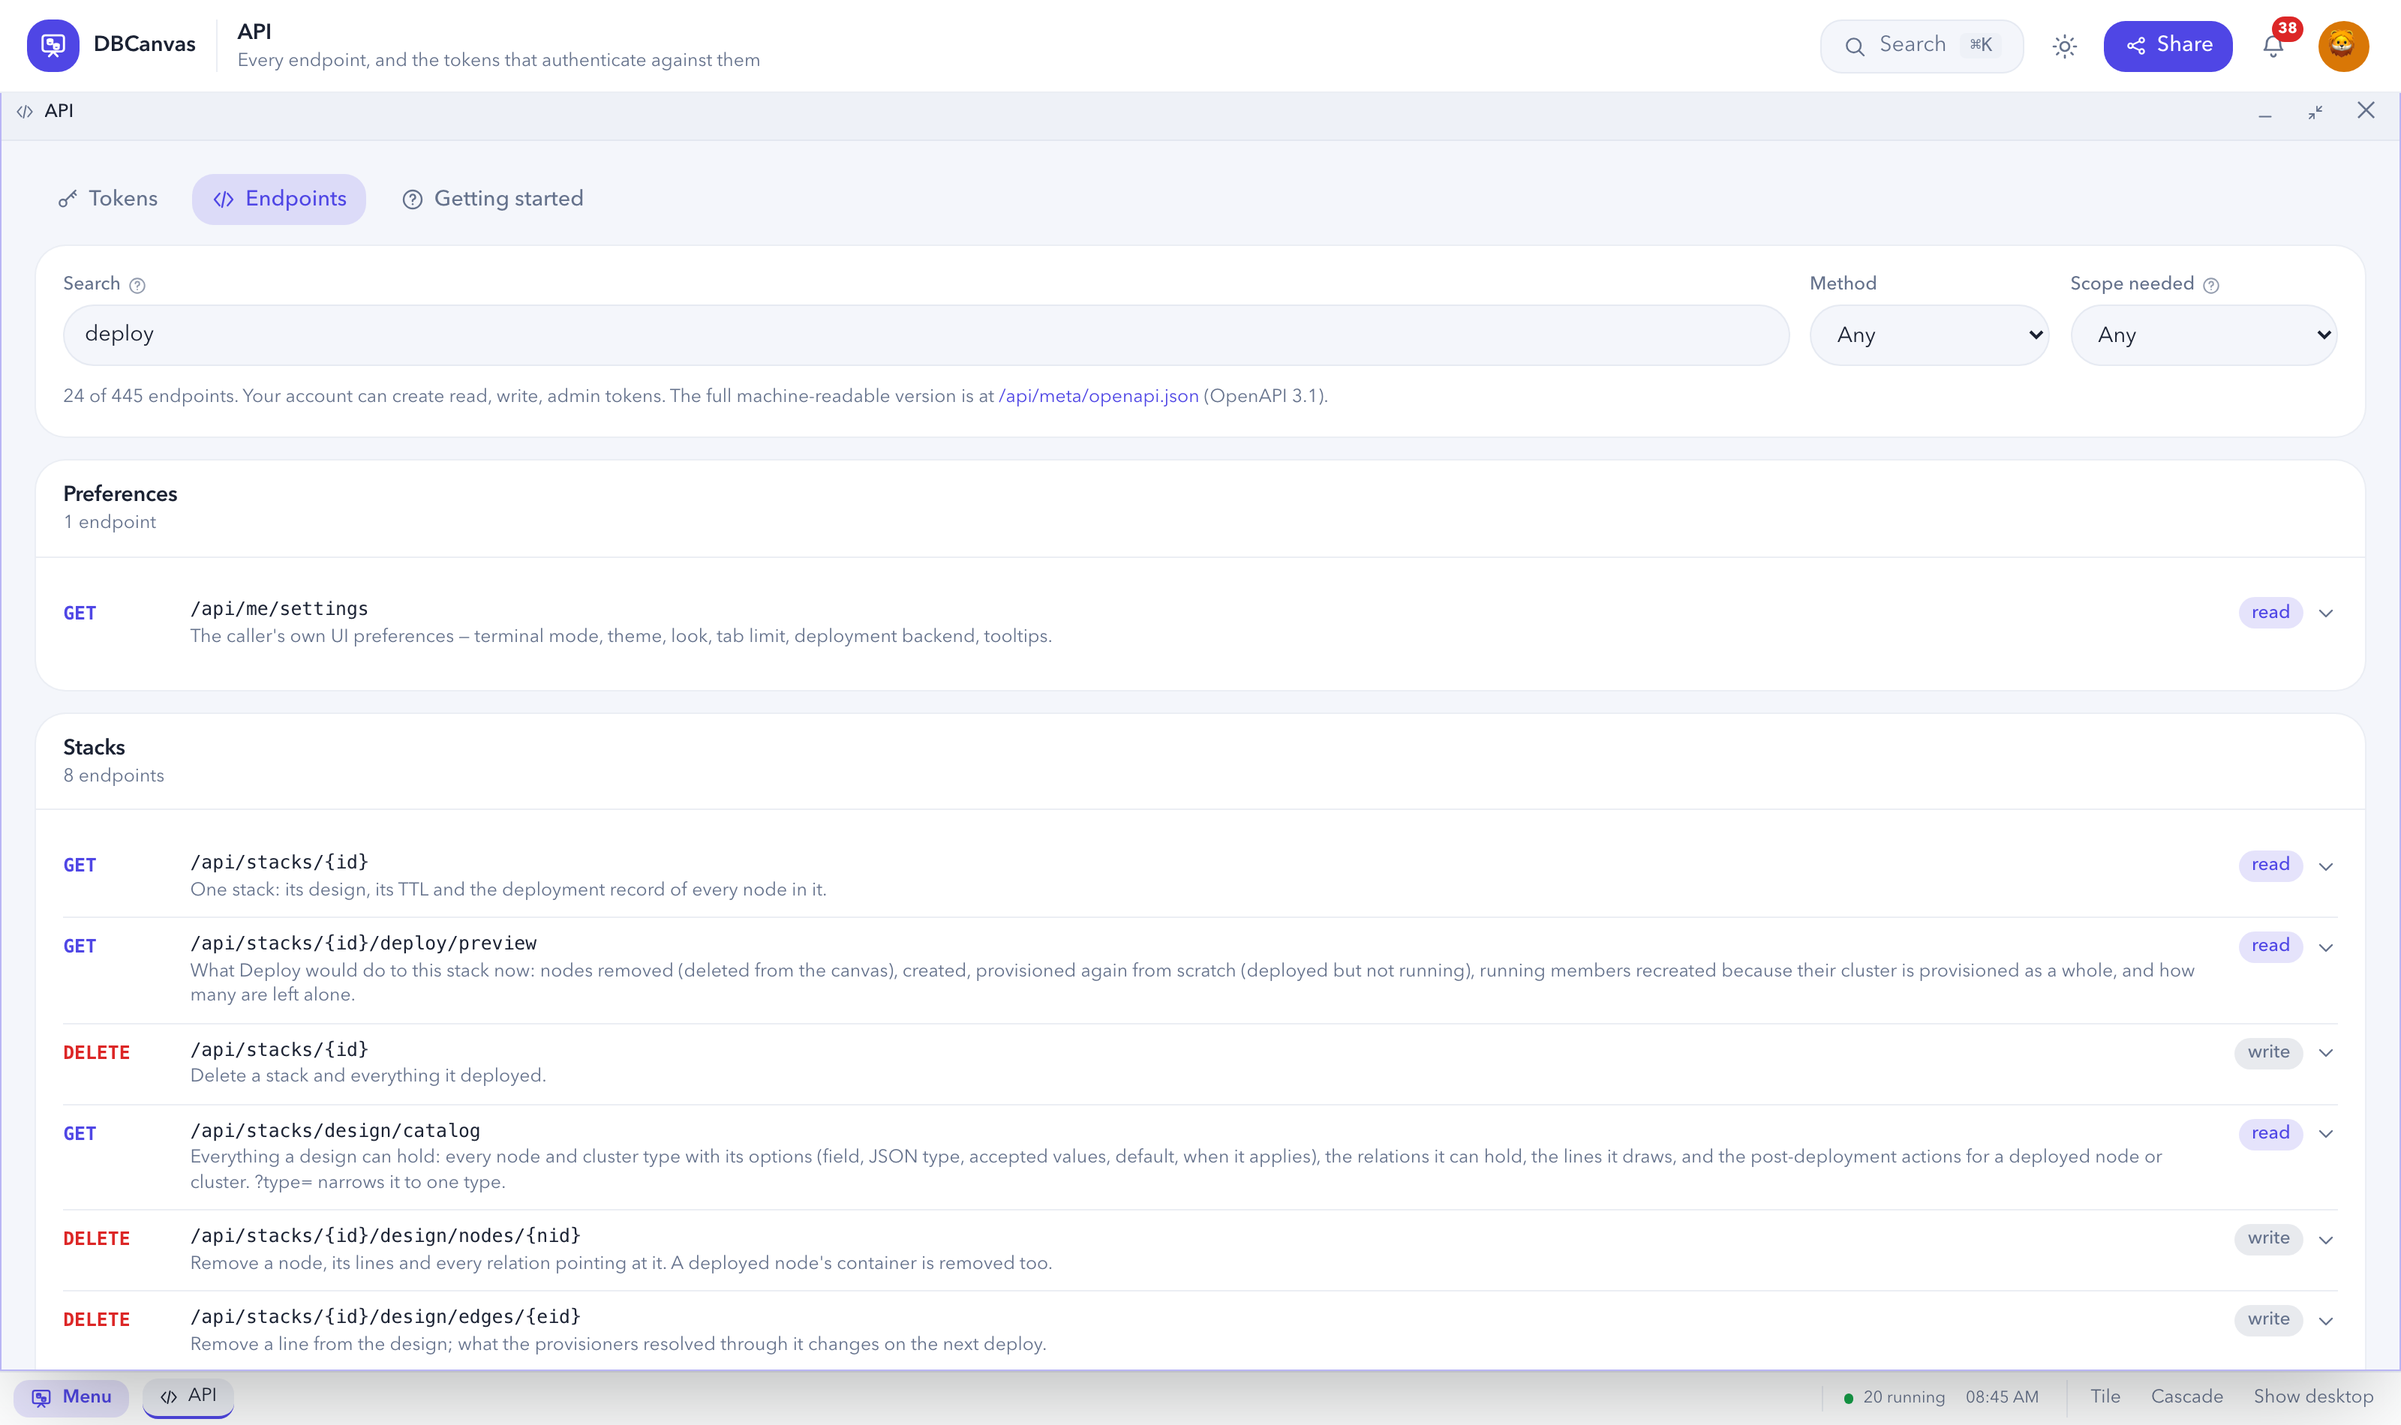
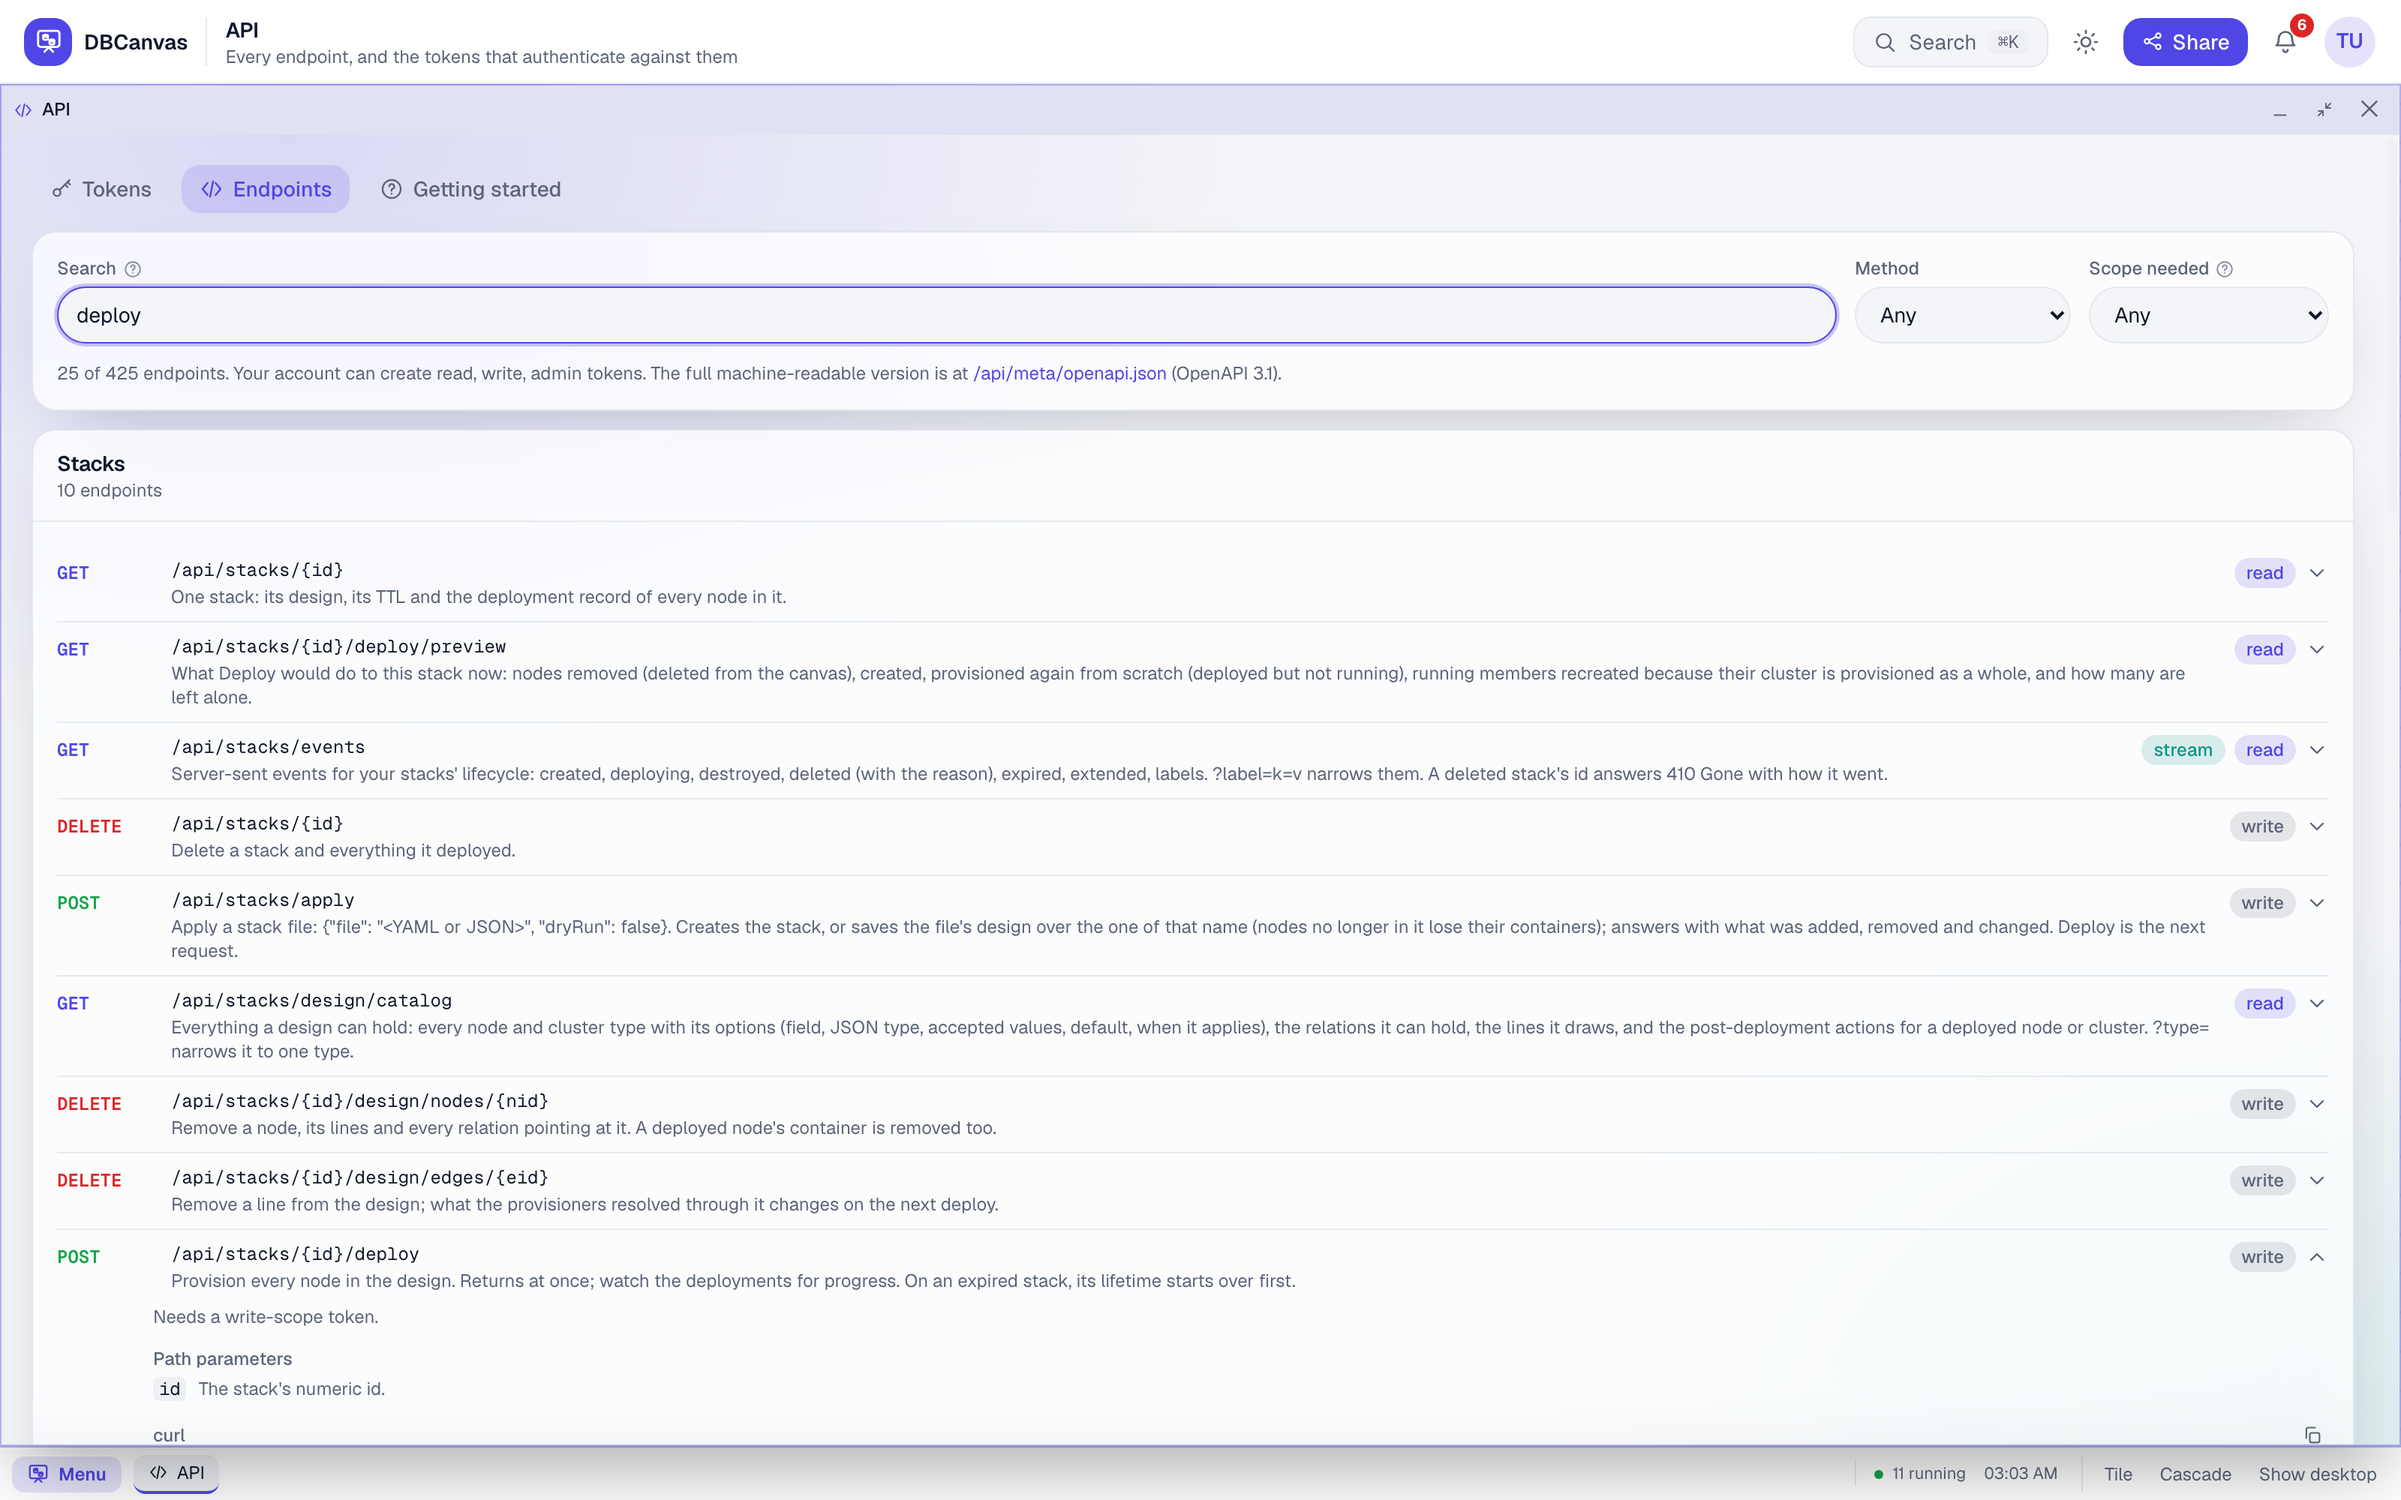
Screenshots retaken for the single-owner edition; owner columns and user filters gone
The documentation screenshots show the one owner and invited guests.
Four images are removed: two of screens that no longer exist (managing
users, changing the password) and two that no document referenced (the
What's new window and the shared-session join screen, both still in the
app). The stack list and Dashboard no longer show an owner column or an
Everyone/Mine filter, and the API reference describes /api/me and the
stack list for one owner.

diff --git a/app/web/src/pages/StackDesigner.jsx b/app/web/src/pages/StackDesigner.jsx
@@ -1878,13 +1878,11 @@ const WARN_CHIP = { warning: 'border-warning/40 bg-warning/10 text-warning', dan
 // stack with a deadline, expired ones (already gone) last.
 const expiresKey = (s) => (s.status === 'expired' ? Number.MAX_SAFE_INTEGER : s.expiresAt ? Date.parse(s.expiresAt) : Number.MAX_SAFE_INTEGER - 1)
 
-// StackTable is the Database Stacks list: one row per stack with whose it is, how many of its
-// nodes run, what they are, what they use now (the dashboard's sample, app/dashboard.go) and how
-// long they have left — sorted by that last one by default, so what is about to be torn down is
-// at the top. An admin sees everyone's and can narrow it to their own.
+// StackTable is the Database Stacks list: one row per stack with how many of its nodes run, what
+// they are, what they use now (the dashboard's sample, app/dashboard.go) and how long they have
+// left — sorted by that last one by default, so what is about to be torn down is at the top.
 function StackTable({ stacks, isAdmin, me, onOpen, onChanged }) {
   const [q, setQ] = useState('')
-  const [whose, setWhose] = useState('all') // all | mine (admin)
   const [only, setOnly] = useState('all') // all | deployed | draft | expired | soon | errors
   const [sort, setSort] = useState({ key: 'expires', dir: 1 })
   const [picked, setPicked] = useState(() => new Set())
@@ -1907,7 +1905,7 @@ function StackTable({ stacks, isAdmin, me, onOpen, onChanged }) {
   const now = Date.now()
   const soon = (s) => s.status === 'deployed' && s.expiresAt && Date.parse(s.expiresAt) - now < SOON
   const errs = (s) => (s.nodes?.error || 0) > 0
-  const scoped = stacks.filter((s) => whose === 'all' || s.ownerId === me?.id)
+  const scoped = stacks
   const test = { all: () => true, deployed: (s) => s.status === 'deployed', draft: (s) => s.status === 'draft', expired: (s) => s.status === 'expired', soon, errors: errs }
   const needle = q.trim().toLowerCase()
   const rows = scoped
@@ -1929,7 +1927,8 @@ function StackTable({ stacks, isAdmin, me, onOpen, onChanged }) {
   const sel = rows.filter((s) => picked.has(s.id))
   const toggle = (id) => setPicked((p) => { const n = new Set(p); n.has(id) ? n.delete(id) : n.add(id); return n })
   const allOn = rows.length > 0 && rows.every((s) => picked.has(s.id))
-  const showOwner = isAdmin && whose === 'all'
+  // One owner: a row never needs to say whose stack it is.
+  const showOwner = false
   const runBulk = async (what, fn) => {
     setBulk(what)
     if (what === 'delete') sel.forEach((s) => markStackDeleting(s.id))
@@ -1974,17 +1973,9 @@ function StackTable({ stacks, isAdmin, me, onOpen, onChanged }) {
       <div className="flex flex-wrap items-center gap-2">
         <label className="ui-input flex h-8 min-w-[220px] items-center gap-2 rounded-full border bg-surface px-3 text-sm text-muted">
           <Icon.Search size={14} />
-          <input type="search" value={q} onChange={(e) => setQ(e.target.value)} placeholder={isAdmin ? 'Filter by name, owner or engine' : 'Filter by name or engine'}
+          <input type="search" value={q} onChange={(e) => setQ(e.target.value)} placeholder="Filter by name or engine"
             aria-label="Filter stacks" className="w-full bg-transparent text-fg outline-none" />
         </label>
-        {isAdmin && (
-          <div role="group" aria-label="Whose stacks" className="inline-flex overflow-hidden rounded-full border text-xs">
-            {[['all', 'Everyone'], ['mine', 'Mine']].map(([id, label], i) => (
-              <button key={id} type="button" aria-pressed={whose === id} onClick={() => setWhose(id)}
-                className={`px-3 py-1 ${i ? 'border-l' : ''} ${whose === id ? 'bg-primary text-primary-fg' : 'bg-surface text-fg hover:bg-surface2'}`}>{label}</button>
-            ))}
-          </div>
-        )}
         {chip('all', 'All')}
         {chip('deployed', 'Deployed')}
         {chip('draft', 'Draft')}

diff --git a/app/web/src/App.jsx b/app/web/src/App.jsx
@@ -53,7 +53,7 @@ export const NAV = [
   // the page the app is for, and a diagram wants all the room there is.
   { id: 'stack-designer', label: 'Database Stacks', icon: 'Stacks', page: StackDesigner, fill: true, max: true, hint: 'Design & deploy stacks' },
   // fill: a board is columns side by side, as tall as the window (pages/Kanban.jsx).
-  { id: 'kanban', label: 'Kanban', icon: 'Kanban', page: Kanban, fill: true, hint: 'Boards of cards — plan and track the work, alone or together' },
+  { id: 'kanban', label: 'Kanban', icon: 'Kanban', page: Kanban, fill: true, hint: 'Boards of cards — plan and track the work' },
   // fill: a canvas, as tall as the window. Nothing on it is saved — see pages/Scratchboard.jsx.
   { id: 'scratchboard', label: 'Scratchboard', icon: 'Pencil', page: Scratchboard, fill: true, hint: 'A disposable canvas for notes, conversions and inspecting what you paste — certificates, Secrets, JSON/YAML, GTID sets, timestamps. Temporary unless you choose to keep a board' },
   { id: 'data-generator', label: 'Data Generator', icon: 'Table', page: DataGenerator, hint: 'Generate test data for stack tables' },

diff --git a/app/web/src/pages/Dashboard.jsx b/app/web/src/pages/Dashboard.jsx
@@ -84,9 +84,8 @@ export default function Dashboard() {
   const cpuFrac = (t) => t.value / 100
   const memFrac = (t) => (t.row.memPercent || 0) / 100
   const rateFrac = (t, max) => t.value / Math.max(max, 1 << 20)
-  // On the system-wide dashboard a row also says whose stack it is; on a user's own every row
-  // would carry their name.
-  const showOwner = admin
+  // Every stack has the one owner, so a row never needs to say whose it is.
+  const showOwner = false
   const openStack = (id) => openStackInDesigner((page) => { location.hash = page }, id)
   // With nothing running there will never be a second sample, so the rate charts say so
   // rather than wait on one.

diff --git a/app/web/src/pages/Api.jsx b/app/web/src/pages/Api.jsx
@@ -204,8 +204,8 @@ export function CreateToken({ scopes, maxDays, canNeverExpire, onCreated, onErro
           <Icon.Plus size={16} /> {busy ? 'Creating…' : 'Create token'}
         </Button>
         <p className="text-xs text-muted">
-          Creating a token needs your password, which is why this page is the only place it can be
-          done — a token can never create another one.
+          Tokens are made here or with <code>dbcanvas token create</code>; a token can never
+          create another one.
         </p>
       </form>
     </Card>

diff --git a/app/api_routes.go b/app/api_routes.go
@@ -69,7 +69,7 @@ const (
 // Groups. These are the headings the API page renders under and the OpenAPI tags,
 // so they read as feature names rather than file names.
 const (
-	gAuth      = "Setup & sign-in"
+	gAuth      = "Who you are"
 	gPrefs     = "Preferences"
 	gUsers     = "Users"
 	gCatalog   = "Version catalogues"
@@ -192,11 +192,11 @@ func buildAPIRoutes() []apiRoute {
 		{Method: "POST", Path: "/api/auth/logout", Group: gAuth, Auth: authPublic, Handler: m((*App).handleLogout),
 			Summary: "Destroy the caller's session and clear the cookie."},
 		{Method: "GET", Path: "/api/me", Group: gAuth, Handler: m((*App).handleMe),
-			Summary: "The signed-in account: id, username, role and approval status."},
+			Summary: "The owner, as the caller is signed in or holds a token for: id, username and name."},
 
 		// --- preferences --------------------------------------------------------
 		{Method: "GET", Path: "/api/me/settings", Group: gPrefs, Handler: m((*App).handleGetSettings),
-			Summary: "The caller's own UI preferences — terminal mode, theme, look, tab limit, deployment backend, tooltips."},
+			Summary: "The caller's own UI preferences — terminal mode, theme, look, tab limit, tooltips."},
 		{Method: "PUT", Path: "/api/me/settings", Group: gPrefs, Handler: m((*App).handleUpdateSettings),
 			Summary: "Replace the caller's UI preferences. Unrecognised values fall back to the defaults. Switching scratchboard from on to off deletes every kept Scratchboard board."},
 		{Method: "GET", Path: "/api/me/scratchboards", Group: gPrefs, Handler: m((*App).handleScratchboards),
@@ -208,7 +208,7 @@ func buildAPIRoutes() []apiRoute {
 		{Method: "PUT", Path: "/api/me/profile", Group: gPrefs, Handler: m((*App).handleUpdateProfile),
 			Summary: "Change your first name, last name, email and avatar: {\"firstName\", \"lastName\", \"email\", \"avatar\"} (an id from GET /api/avatars)."},
 		{Method: "GET", Path: "/api/avatars", Group: gPrefs, Handler: m((*App).handleAvatars),
-			Summary: "The avatar ids an account or a guest may choose."},
+			Summary: "The avatar ids the owner or a guest may choose."},
 		// Instance-wide settings: anyone signed in may read them (the designer needs
 		// the upload ceiling to refuse an over-size drop client-side); only an admin
 		// may change them.
@@ -269,7 +269,7 @@ func buildAPIRoutes() []apiRoute {
 
 		// --- stacks -------------------------------------------------------------
 		{Method: "GET", Path: "/api/stacks", Group: gStacks, Handler: m((*App).handleListStacks),
-			Summary: "The stacks you own; an admin sees every stack on the instance. ?detail=1 adds each stack's owner, node counts and node types."},
+			Summary: "Your stacks. ?detail=1 adds each stack's node counts and node types."},
 		{Method: "POST", Path: "/api/stacks", Group: gStacks, Handler: m((*App).handleCreateStack),
 			Summary: "Create a stack — a name, a TTL, and an initial canvas design."},
 		{Method: "GET", Path: "/api/stacks/{id}", Group: gStacks, Handler: m((*App).handleGetStack),
@@ -336,7 +336,7 @@ func buildAPIRoutes() []apiRoute {
 		// route it is. Go's mux prefers it regardless of order; the ordering is for
 		// whoever adds the next route here.
 		{Method: "GET", Path: "/api/templates", Group: gTemplates, Handler: m((*App).handleListTemplates),
-			Summary: "Deployment templates available to you: the built-ins, your own, and any an admin published."},
+			Summary: "Deployment templates: the built-ins and your own."},
 		{Method: "POST", Path: "/api/templates", Group: gTemplates, Handler: m((*App).handleCreateTemplate),
 			Summary: "Save a canvas as a reusable template, stripped of secrets, host paths and pinned ports."},
 		{Method: "POST", Path: "/api/templates/import", Group: gTemplates, Handler: m((*App).handleImportTemplate),
